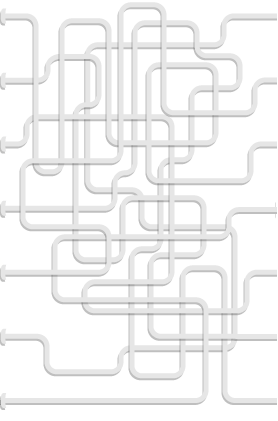
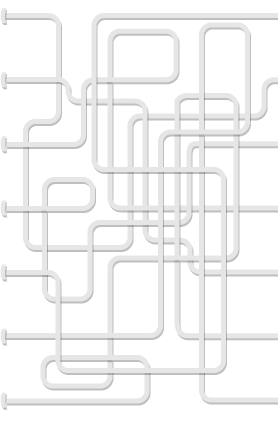
Add new cables

diff --git a/web/js/entangled-cables.js b/web/js/entangled-cables.js
@@ -35,31 +35,107 @@ $(function(){
 					5: 0,
 					6: 3	
 				}
-		},
+			},
+
 		1: {
-				pics: {
-					L: 'img/entangled-cables-L-02.png',
-					R: 'img/entangled-cables-R-02.png',
-				},
-				L: {
-					0: 2,
-					1: 5,
-					2: 4,
-					3: 6,
-					4: 1,
-					5: 0,
-					6: 3
-				},
-				R: {	
-					0: 3,
-					1: 6,
-					2: 5,
-					3: 0,
-					4: 2,
-					5: 1,
-					6: 4					
-				}
-		}		
+			pics: {
+				L: 'img/entangled-cables-L-02.png',
+				R: 'img/entangled-cables-R-02.png',
+			},
+			L: {
+				0: 1,
+				1: 4,
+				2: 3,
+				3: 2,
+				4: 0,
+				5: 6,
+				6: 5	
+			},
+			R: {
+				0: 4,
+				1: 6,
+				2: 2,
+				3: 5,
+				4: 1,
+				5: 0,
+				6: 3
+			}
+		},
+
+		2: {
+			pics: {
+				L: 'img/entangled-cables-L-03.png',
+				R: 'img/entangled-cables-R-03.png',
+			},
+			L: {
+				0: 5,
+				1: 4,
+				2: 0,
+				3: 3,
+				4: 2,
+				5: 6,
+				6: 1
+			},
+			R: {
+				0: 3,
+				1: 2,
+				2: 0,
+				3: 6,
+				4: 1,
+				5: 5,
+				6: 4
+			}
+		},
+
+		3: {
+			pics: {
+				L: 'img/entangled-cables-L-04.png',
+				R: 'img/entangled-cables-R-04.png',
+			},
+			L: {
+				0: 6,
+				1: 3,
+				2: 4,
+				3: 1,
+				4: 5,
+				5: 0,
+				6: 2
+			},
+			R: {
+				0: 3,
+				1: 6,
+				2: 2,
+				3: 0,
+				4: 5,
+				5: 1,
+				6: 4
+			}
+		},
+
+		4: {
+			pics: {
+				L: 'img/entangled-cables-L-05.png',
+				R: 'img/entangled-cables-R-05.png',
+			},
+			L: {
+				0: 5,
+				1: 1,
+				2: 4,
+				3: 6,
+				4: 0,
+				5: 2,
+				6: 3
+			},
+			R: {
+				0: 5,
+				1: 4,
+				2: 1,
+				3: 6,
+				4: 2,
+				5: 0,
+				6: 3
+			}
+		}
 	}
 
 	// Loop through cables and set according behavior
